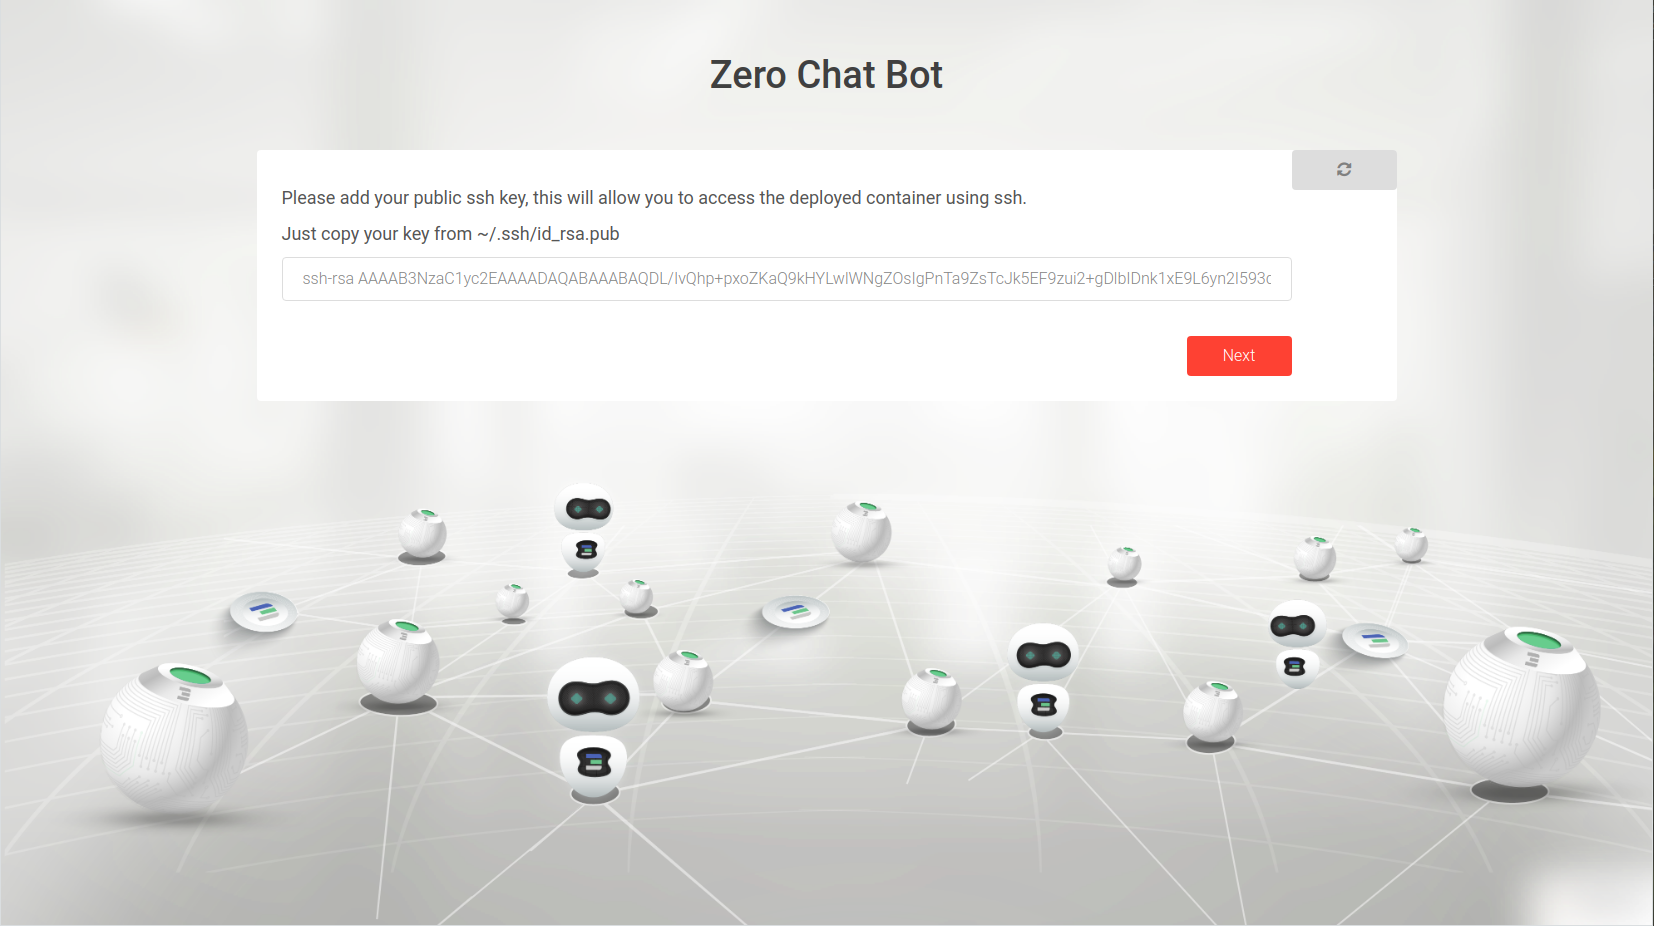
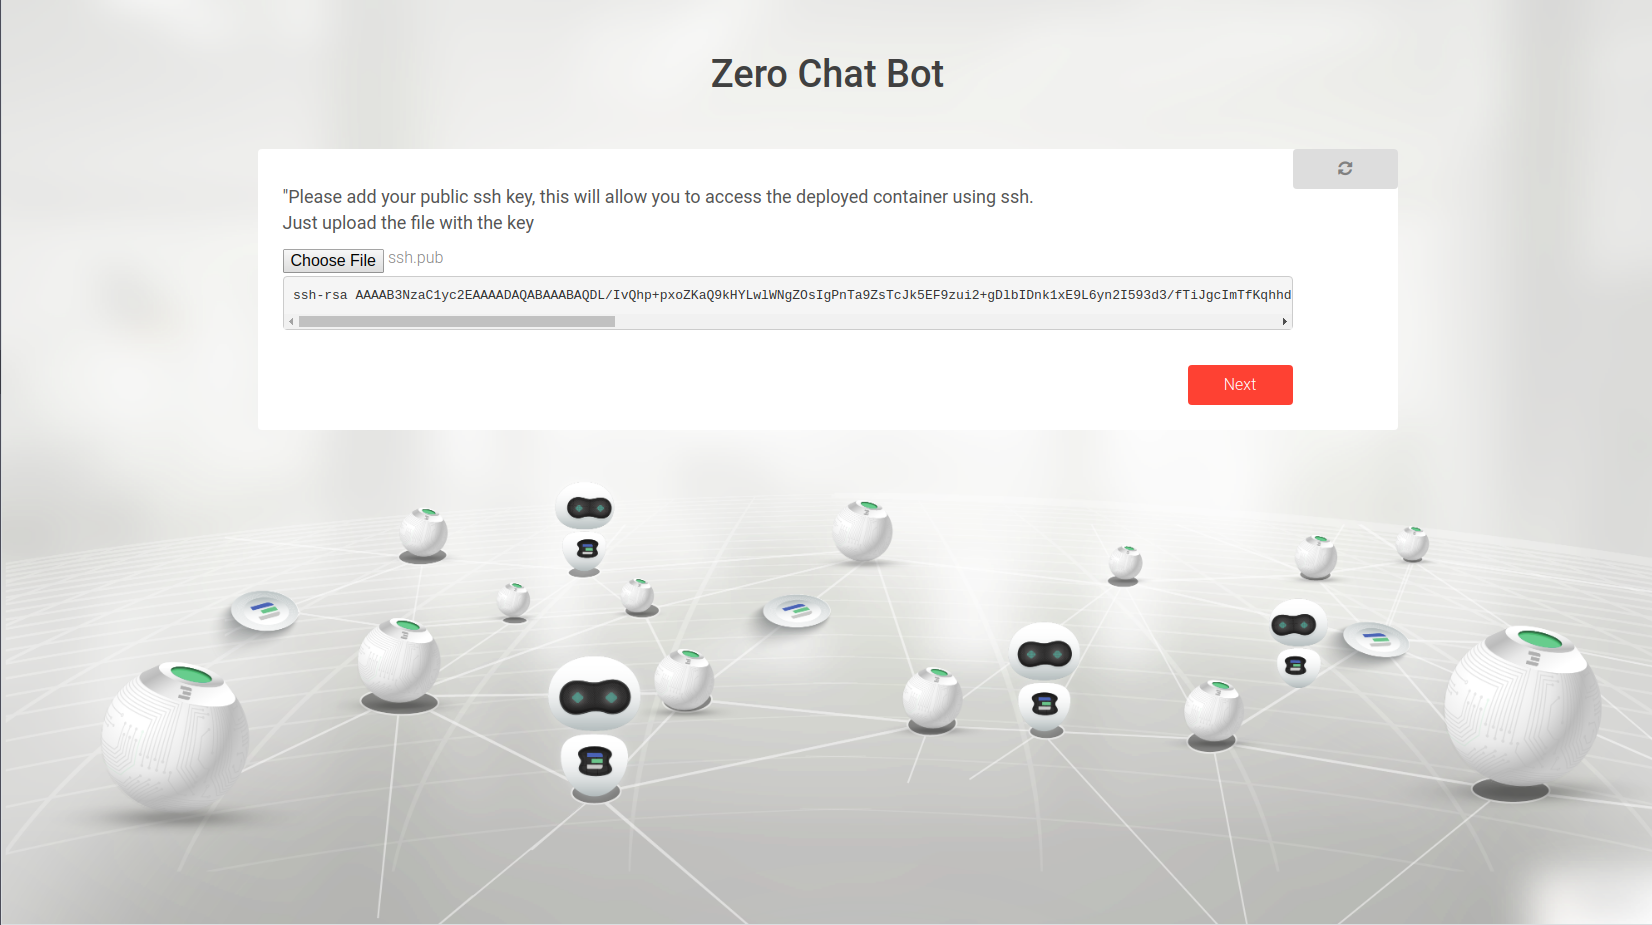
update all docs of solutions

diff --git a/ThreeBotPackages/tfgrid_solutions/any_flist/chatflows/your_flist.py b/ThreeBotPackages/tfgrid_solutions/any_flist/chatflows/your_flist.py
@@ -45,19 +45,23 @@ def chat(bot):
     user_form_data["CPU"] = cpu.value
     user_form_data["Memory"] = memory.value
 
-    while not user_form_data.get("Public key"):
-        user_form_data["Public key"] = bot.upload_file(
-            """"Please add your public ssh key, this will allow you to access the deployed container using ssh.
-                Just upload the file with the key"""
-        ).split("\n")[0]
+    user_form_data["Interactive"] = bot.single_choice(
+        "Would you like access to your container through the web browser (coreX)?", ["YES", "NO"]
+    )
+    if user_form_data["Interactive"] == "NO":
+        while not user_form_data.get("Public key"):
+            user_form_data["Public key"] = bot.upload_file(
+                """"Please add your public ssh key, this will allow you to access the deployed container using ssh.
+                    Just upload the file with the key"""
+            ).split("\n")[0]
+        user_form_data["Entry point"] = bot.string_ask("Please add your entrypoint for your flist")
+    else:
+        user_form_data["Public key"]=""
+        user_form_data["Entry point"] = ""
     user_form_data["Env variables"] = bot.string_ask(
         """To set environment variables on your deployed container, enter comma-separated variable=value
         For example: var1=value1, var2=value2.
         Leave empty if not needed"""
-    )
-
-    user_form_data["Interactive"] = bot.single_choice(
-        "Would you like access to your container through the web browser (coreX)?", ["YES", "NO"]
     )
 
     expirationdelta = int(bot.time_delta_ask("Please enter solution expiration time.", default="1d"))
@@ -107,6 +111,7 @@ def chat(bot):
         env=env,
         interactive=interactive,
         public_ipv6=True,
+        entrypoint=user_form_data["Entry point"],
         cpu=user_form_data["CPU"],
         memory=user_form_data["Memory"],
     )

diff --git a/ThreeBotPackages/tfgrid_solutions/any_flist/wiki/README.md b/ThreeBotPackages/tfgrid_solutions/any_flist/wiki/README.md
@@ -5,13 +5,12 @@ Your deployed a container will have started from container flist.
 
 * **URL**: {host}/tfgrid_solutions/any_flist/chat/your_flist
 * **Inputs**:
+   - **container name** a name of your conatiner to help you to get it again with reservation id.
    - **Flist link** : the link of your flist to be deployed. For example: https://hub.grid.tf/usr/example.flist
-   - **ssh key** : add your public ssh key `~/.ssh/id_rsa.pub`, if your flist supports using the ssh key from the env variables provided to allow future ssh access
    - **environment variables**: set environment variables on your deployed container, enter comma-separated variable=value For example: var1=value1, var2=value2. Leave empty if not needed
+   - **Expiration time**: a network expiration time (minutes=m ,hour=h, day=d, week=w, month=M)
    - **Inetractive**:  choose whether you prefer to access to your container through the web browser (coreX) or not.
-   - **IP version**: choose whether you prefer to access your ubuntu container using IPv4 or IPv6. If unsure, choose IPv4
-   - **IP range**: Configure network to manually by choosing an IP range to use or the deployer can choose for you and generate an IP range automatically
-   - **Network name**: a name for the network to deploy on,  if left empty it will be a generated name
+   - **ssh key** : add your public ssh key `~/.ssh/id_rsa.pub`, if your flist supports using the ssh key from the env variables provided to allow future ssh access
    - **IP Address**: choose the ip address for your ubuntu machine.
 * **User setup** 
     - register user threebot on explorer ```kosmos "j.tools.threebot.init_my_threebot(name=3bot_NAME,email=EMAIL)"``` Note: name of 3bot is (your 3bot name).3bot , email is your 3bot email
@@ -21,5 +20,16 @@ Your deployed a container will have started from container flist.
 After the deployment of the flist is complete, a url will be returned that can be used to access the container through web browser (corex) or by ssh if your flist support this after up your wireguard configuration.
 
 ## Screenshots:
+ * chatflow steps:
+ ![Step1](flist1.png)
+ ![Step2](flist2.png)
+ ![Step3](flist3.png)
+ ![Step4](flist4.png)
+ ![Step5](flist5.png)
+ ![Step6](flist6.png)
+ ![Step7](flist7.png)
+ ![Step8](flist8.png)
+ ![Step9](flist9.png)
+ ![Step10](flist10.png)
 - creating flist with https://hub.grid.tf/tf-bootable/ubuntu:18.04
 ![](2.png)

diff --git a/ThreeBotPackages/tfgrid_solutions/minio/wiki/README.md b/ThreeBotPackages/tfgrid_solutions/minio/wiki/README.md
@@ -5,7 +5,7 @@ MinIO is a high performance object storage. With the assist of the chatflow the 
 
 * **URL**: *{host}/tfgrid_solutions/minio/chat/minio_deploy*
 * **Inputs**
-   - **Ip version** : (IPv4 or IPv6) Version of the machine that will be used to access MinIO. If unsure, choose IPv4.
+    **container name** a name of your conatiner to help you to get it again with reservation id.
    - **db password** : password used for all zdb storage
    - **disk type for storage** : (SSD or HDD) disk type to be used by zdb databases where storage will take place
    - **database mode** : (seq or user) mode in which all zdb databases will run with
@@ -13,8 +13,7 @@ MinIO is a high performance object storage. With the assist of the chatflow the 
    - **cpu needed** : Number of cpu needed
    - **memory size** : Memory size needed example 2048
    - **number of data drives and parity drives** : number of drives needed and hence the number of zdbs to be created. Take care of the ratio between the number of data drives and the number of parity drives ([more info about drives](https://docs.min.io/docs/minio-erasure-code-quickstart-guide.html))
-   - **IP range** : Configure network manually by choosing an IP range to use or the deployer can choose for you and generate an IP range automatically
-    - **Network name** : a name for the network to deploy on,  if left empty it will be a generated name
+    - **Expiration time**: a network expiration time (minutes=m ,hour=h, day=d, week=w, month=M)
     - **IP Address** : choose the ip address for your MinIO machine.
 
 * **User setup:**
@@ -23,8 +22,25 @@ MinIO is a high performance object storage. With the assist of the chatflow the 
 
 
 
+
 After the deployment of MinIO is complete,  a url will be returned that can be used to access it.
 
+### Screenshots:
+   -![Step1](minio1.png)
+   -![Step2](minio2.png)
+   -![Step3](minio3.png)
+   -![Step4](minio4.png)
+   -![Step5](minio5.png)
+   -![Step6](minio6.png)
+   -![Step7](minio7.png)
+   -![Step8](minio9.png)
+   -![Step9](minio10.png)
+   -![Step10](minio11.png)
+   -![Step11](minio12.png)
+   -![Step12](minio13.png)
+   -![Step13](minio14.png)
+   -![Step14](minio15.png)
+   -![Step15](minio16.jpg)
 #### Login Page
 Once accessing the url the following is shown once redirected to MinIO login(access key and secret are to be used here)
 ![](login.png)

diff --git a/ThreeBotPackages/tfgrid_solutions/kubernetes_cluster/wiki/README.md b/ThreeBotPackages/tfgrid_solutions/kubernetes_cluster/wiki/README.md
@@ -5,9 +5,10 @@ A Kubernetes cluster is a set of node machines for running containerized applica
 
 * **URL**: *{host}/tfgrid_solutions/kubernetes_cluster/chat/kubernetes_cluster_deploy*
 * **Inputs**
-   - **Ip version** : (IPv4 or IPv6) Version of the machine that will be used to access the cluster. If unsure, choose IPv4.
+   - **container name** a name of your conatiner to help you to get it again with reservation id.
    - **number of workers** : number of worker nodes to be deployed, the cluster size will then be the number of workers + 1(master node)
    - **ssh keys** : ssh keys which will be used to allow access for the ssh key holders to the deployed cluster. They should be in a file where each ssh key is on a seperate line
+   - **Expiration time**: a network expiration time (minutes=m ,hour=h, day=d, week=w, month=M)
    - **cluster secret** : the secret that will be used to access the cluster deployed. Please keep it safe.
    - **IP range** : Configure network manually by choosing an IP range to use or the deployer can choose for you and generate an IP range automatically
     - **Network name** : a name for the network to deploy on,  if left empty it will be a generated name
@@ -17,7 +18,17 @@ A Kubernetes cluster is a set of node machines for running containerized applica
     - Install [wireguard](https://www.wireguard.com/install/)
 
 
-
+### Screenshots:
+  * chatflow steps:
+  ![Step1](k8s1.png)
+  ![Step2](k8s2.png)
+  ![Step3](k8s3.png)
+  ![Step4](k8s4.png)
+  ![Step5](k8s5.png)
+  ![Step6](k8s6.png)
+  ![Step7](k8s7.png)
+  ![Step8](k8s8.png)
+  
 After the deployment of the Kubernetes cluster is complete, the user with the ssh keys will have access to the deployed cluster.
 
 Once the user added the wireguard configuration and made sure it is up and running on their machine, they can ssh to the machine using

diff --git a/ThreeBotPackages/tfgrid/threebot_provisioning/wiki/README.md b/ThreeBotPackages/tfgrid/threebot_provisioning/wiki/README.md
@@ -10,9 +10,7 @@ Your deployed 3bot container will have started from jsx flist.
    - **ssh key** : add your public ssh key `~/.ssh/id_rsa.pub` that will allow you ssh access to your 3bot container
    - **corex user**: setting username which will allow you secure access to the 3bot from your web browser using coreX
    - **corex password**: setting password which will allow you secure access to the 3bot from your web browser using coreX
-   - **IP version**: choose whether you prefer to access your 3bot using IPv4 or IPv6. If unsure, choose IPv4
-   - **IP range**: Configure network to manually by choosing an IP range to use or the deployer can choose for you and generate an IP range automatically
-   - **Network name**: a name for the network to deploy on,  if left empty it will be a generated name
+   - **Expiration time**: a network expiration time (minutes=m ,hour=h, day=d, week=w, month=M)
    - **IP Address**: choose the ip address for your 3bot machine.
    - **Backup password**: in case you want your 3bot to be automatically backed up (in s3) a password should be provided. You will later use it to restore your 3bot.
 * **User setup** 
@@ -24,6 +22,8 @@ After the deployment of the threebot is complete,  a url will be returned that c
 
 ## Screenshots:
 -  When accessing the link provided and directed to the 3bot deployed, you will be directed to corex of the machine shown in the following:
+    * need to intialize your threebot at threebot container by adding your phrase and your secret
+![](threebot2.png)
     * need your username and password of corex to access the web browser
 ![](3.png)
     * The process of the 3bot on your 3bot are shown in the following:

diff --git a/ThreeBotPackages/tfgrid_solutions/ubuntu/wiki/README.md b/ThreeBotPackages/tfgrid_solutions/ubuntu/wiki/README.md
@@ -9,11 +9,13 @@ Your deployed a ubuntu container will have started from container flist.
 
 * **URL**: {host}/tfgrid_solutions/ubuntu/chat/ubuntu_deploy
 * **Inputs**:
+   - **container name** a name of your conatiner to help you to get it again with reservation id.
    - **Ubuntu version**: choose ubuntu version flist for your container
+   - **cpu needed** : Number of cpu needed
+   - **memory size** : Memory size needed example 2048
+   - **ssh key** : add your public ssh key `~/.ssh/id_rsa.pub`, if your flist supports using the ssh key from the env variables provided to allow future ssh access
    - **environment variables**: set environment variables on your deployed container, enter comma-separated variable=value For example: var1=value1, var2=value2. Leave empty if not needed
-   - **IP version**: choose whether you prefer to access your ubuntu container using IPv4 or IPv6. If unsure, choose IPv4
-   - **IP range**: Configure network to manually by choosing an IP range to use or the deployer can choose for you and generate an IP range automatically
-   - **Network name**: a name for the network to deploy on,  if left empty it will be a generated name
+   - **Expiration time**: a network expiration time (minutes=m ,hour=h, day=d, week=w, month=M)
    - **IP Address**: choose the ip address for your ubuntu machine.
 * **User setup** 
     - register user threebot on explorer ```kosmos "j.tools.threebot.init_my_threebot(name=3bot_NAME,email=EMAIL)"``` Note: name of 3bot is (your 3bot name).3bot , email is your 3bot email
